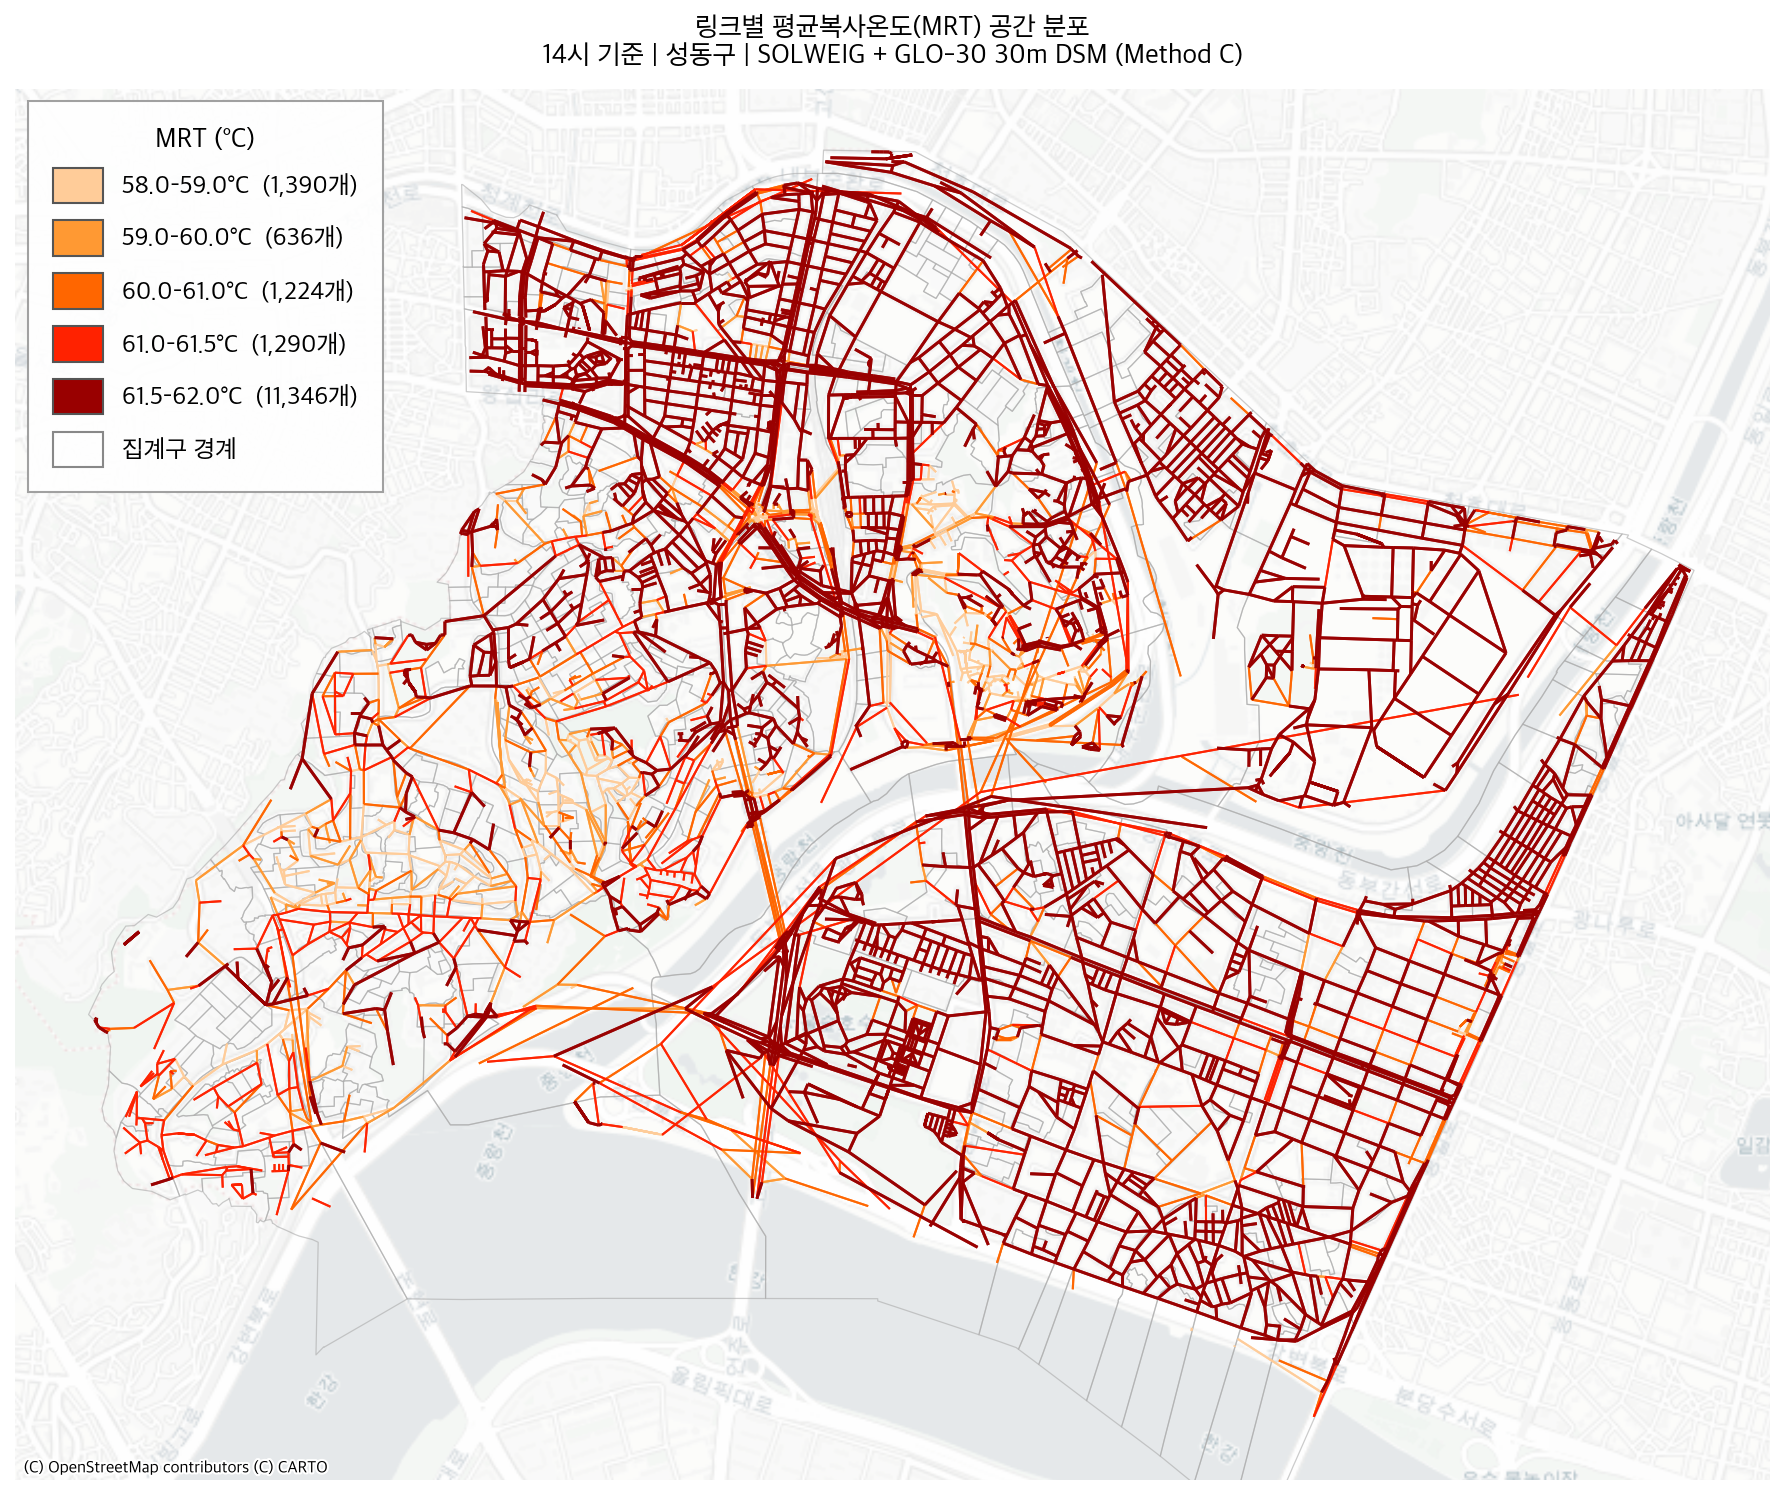
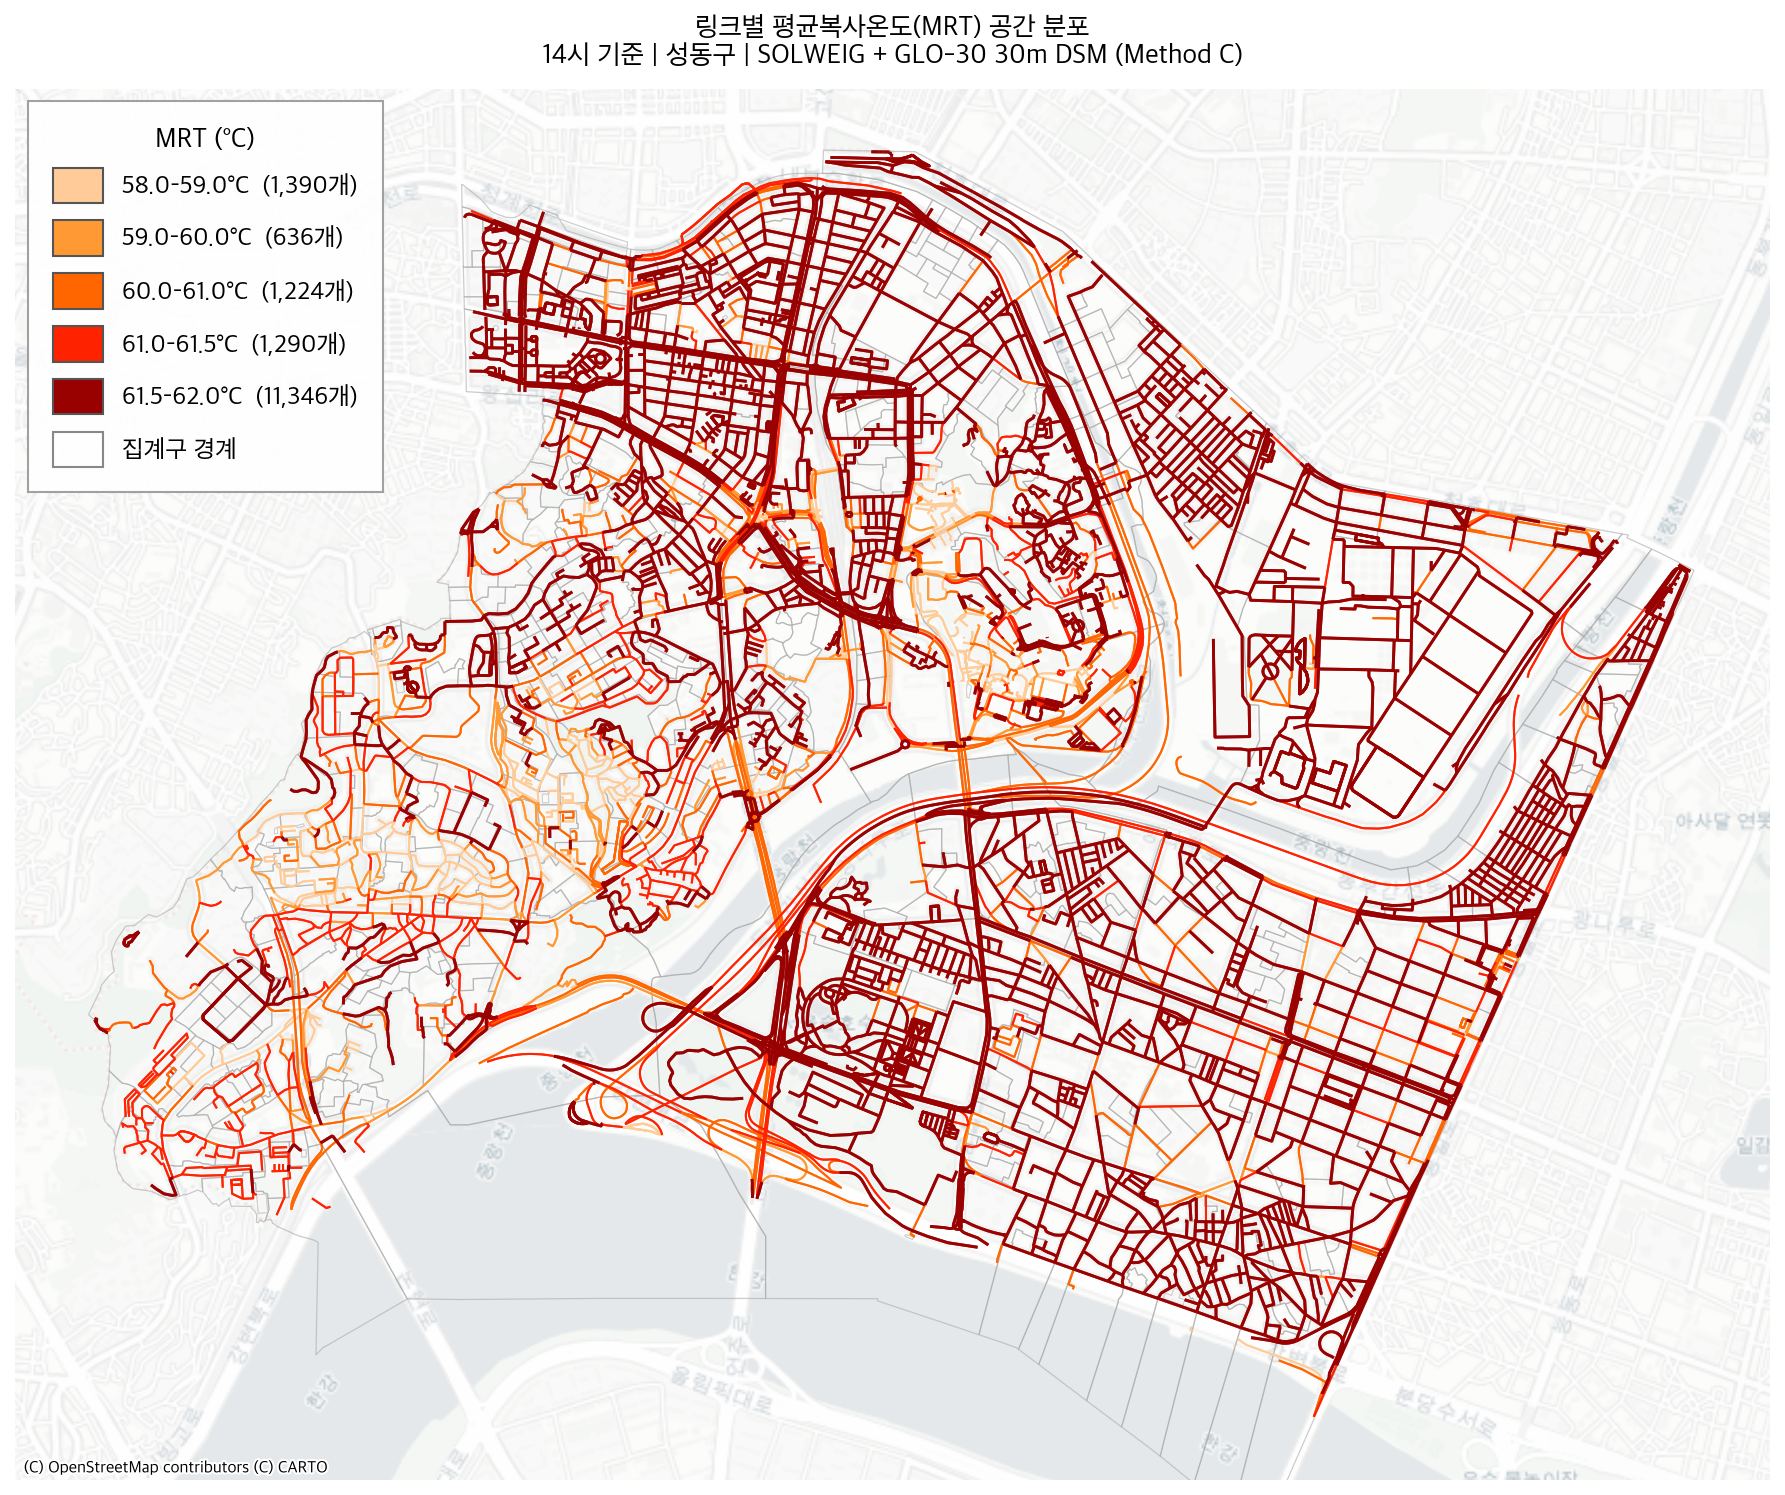
Fix: MRT 코로플레스 링크 형태 수정 — 직선→실제 도로 곡선 geometry 적용
GraphML 엣지의 WKT geometry 속성 파싱(shapely_wkt.loads)하여
실제 도로 곡선을 반영. geometry 없는 엣지만 직선으로 대체.

diff --git a/03_Method_C/code/mrt_choropleth_map.py b/03_Method_C/code/mrt_choropleth_map.py
@@ -17,6 +17,8 @@ from matplotlib.colors import BoundaryNorm
 import contextily as ctx
 from pyproj import Transformer
 from shapely.geometry import LineString
+from shapely import wkt as shapely_wkt
+from shapely.ops import transform as shapely_transform
 warnings.filterwarnings('ignore')
 
 matplotlib.rcParams['font.family'] = 'Apple SD Gothic Neo'
@@ -40,13 +42,23 @@ print("네트워크 로드...")
 G = nx.read_graphml(NET_PATH)
 wgs2wm = Transformer.from_crs("EPSG:4326", "EPSG:3857", always_xy=True)
 
+def to_wm(geom_wgs):
+    """WGS84 shapely geometry → EPSG:3857"""
+    return shapely_transform(wgs2wm.transform, geom_wgs)
+
 edge_rows = []
 for u, v, d in G.edges(data=True):
     un, vn = G.nodes[u], G.nodes[v]
-    ux, uy = wgs2wm.transform(float(un['x']), float(un['y']))
-    vx, vy = wgs2wm.transform(float(vn['x']), float(vn['y']))
-    edge_rows.append({'u': str(u), 'v': str(v),
-                      'geometry': LineString([(ux, uy), (vx, vy)])})
+    # GraphML에 실제 도로 곡선 geometry가 WKT로 저장돼 있으면 사용
+    # 없으면 노드 좌표로 직선 대체
+    if 'geometry' in d:
+        geom = to_wm(shapely_wkt.loads(d['geometry']))
+    else:
+        ux, uy = wgs2wm.transform(float(un['x']), float(un['y']))
+        vx, vy = wgs2wm.transform(float(vn['x']), float(vn['y']))
+        geom = LineString([(ux, uy), (vx, vy)])
+    edge_rows.append({'u': str(u), 'v': str(v), 'geometry': geom})
+
 edges_gdf = gpd.GeoDataFrame(edge_rows, crs="EPSG:3857")
 print(f"  링크: {len(edges_gdf):,}개")
 
